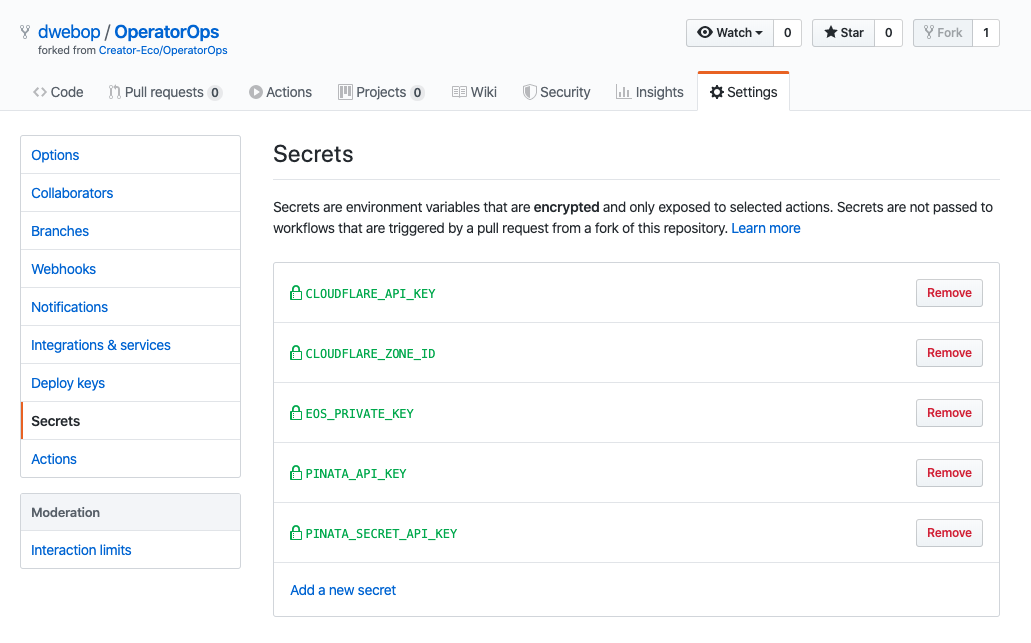
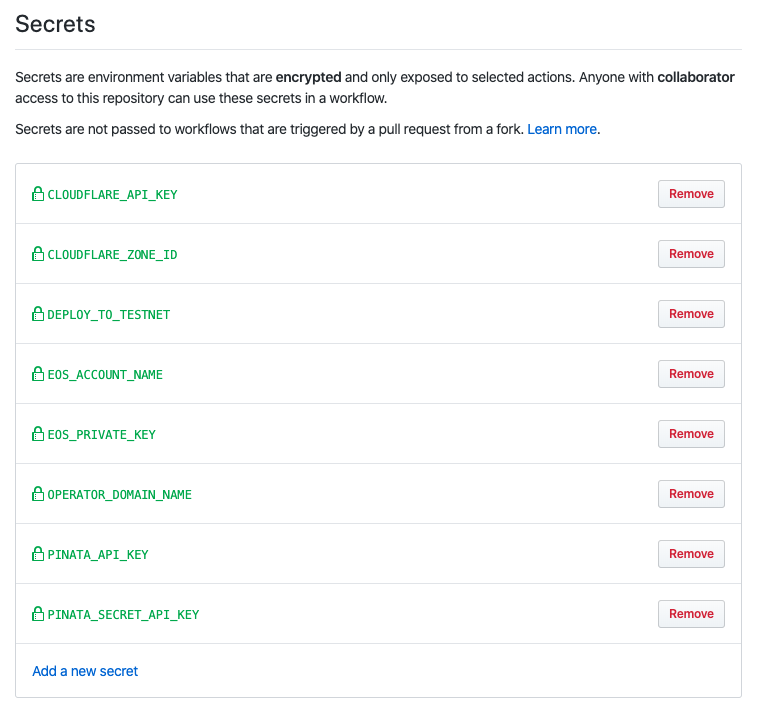
adding new secrets

diff --git a/docs/08-create-secrets.md b/docs/08-create-secrets.md
@@ -1,6 +1,7 @@
 ## Configure GitHub's actions pipeline secrets  
 
 In this step we'll create a dedicated secret variable for each of the API secrets collected in the previous step.
+
 1. In the *OperatorOps* repository homepage, click the **Settings** tab and then select the **Secrets** tab.  
   ![github's settings tab](images/github-settings-tab.png)
 
@@ -21,6 +22,27 @@ In this step we'll create a dedicated secret variable for each of the API secret
       Name: CLOUDFLARE_ZONE_ID
       Value: <Your Cloudflare zone id> 
       ```
+
+3. In addition, also add the following secrets:
+     -  ```
+        Name: OPERATOR_DOMAIN_NAME
+        Value: <Your Domain Name>
+        ```
+        For example: operator.com, subdomains are **not** allowed.
+
+     - ```
+        Name: EOS_ACCOUNT_NAME
+        Value: <Your EOS account name>
+        ```
+        This value will be used as the EOS smart contract name. 
+
+      **Testnet**
+     - ```
+        Name: DEPLOY_TO_TESTNET
+        Value: true/false (default is false) 
+        ```
+        When value is *true* the deployment of the **CEO Core** will be to the **Kylin** Testnet, else, the deployment will be to the EOS mainnet.
+
    At the end, your setup should look like this...
      ![github's actions secrets](images/github-secret-screen.png)
 
